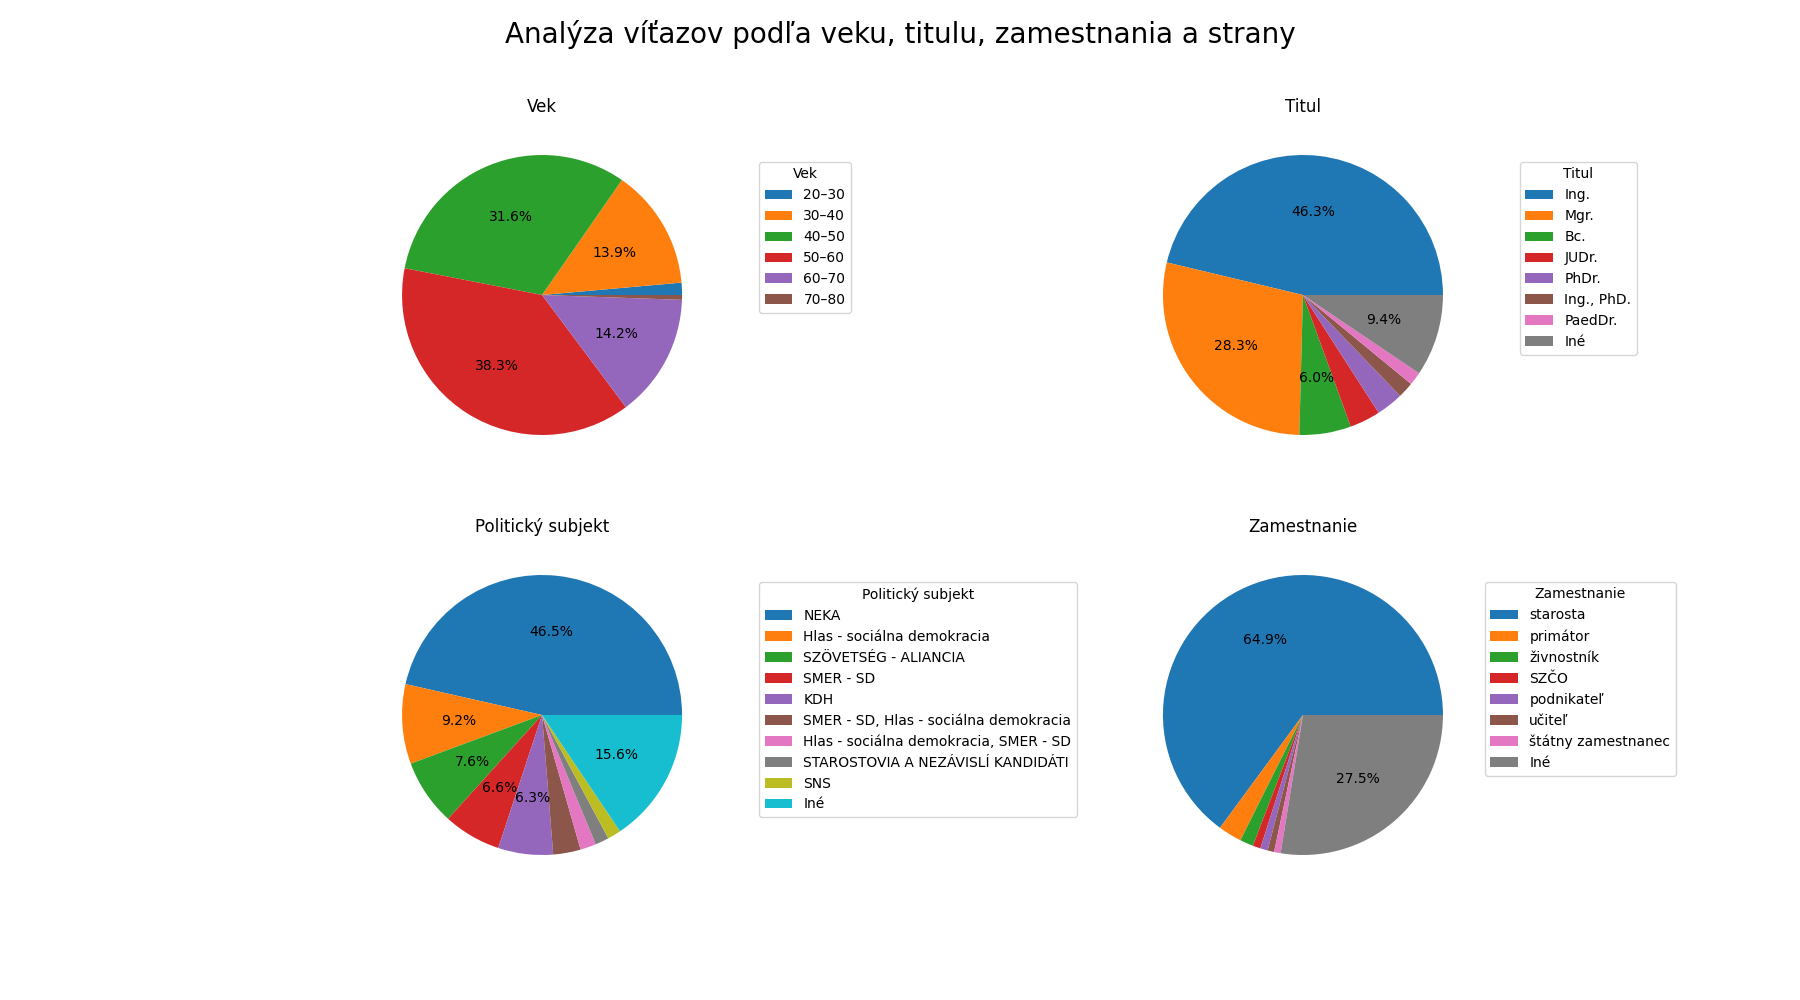
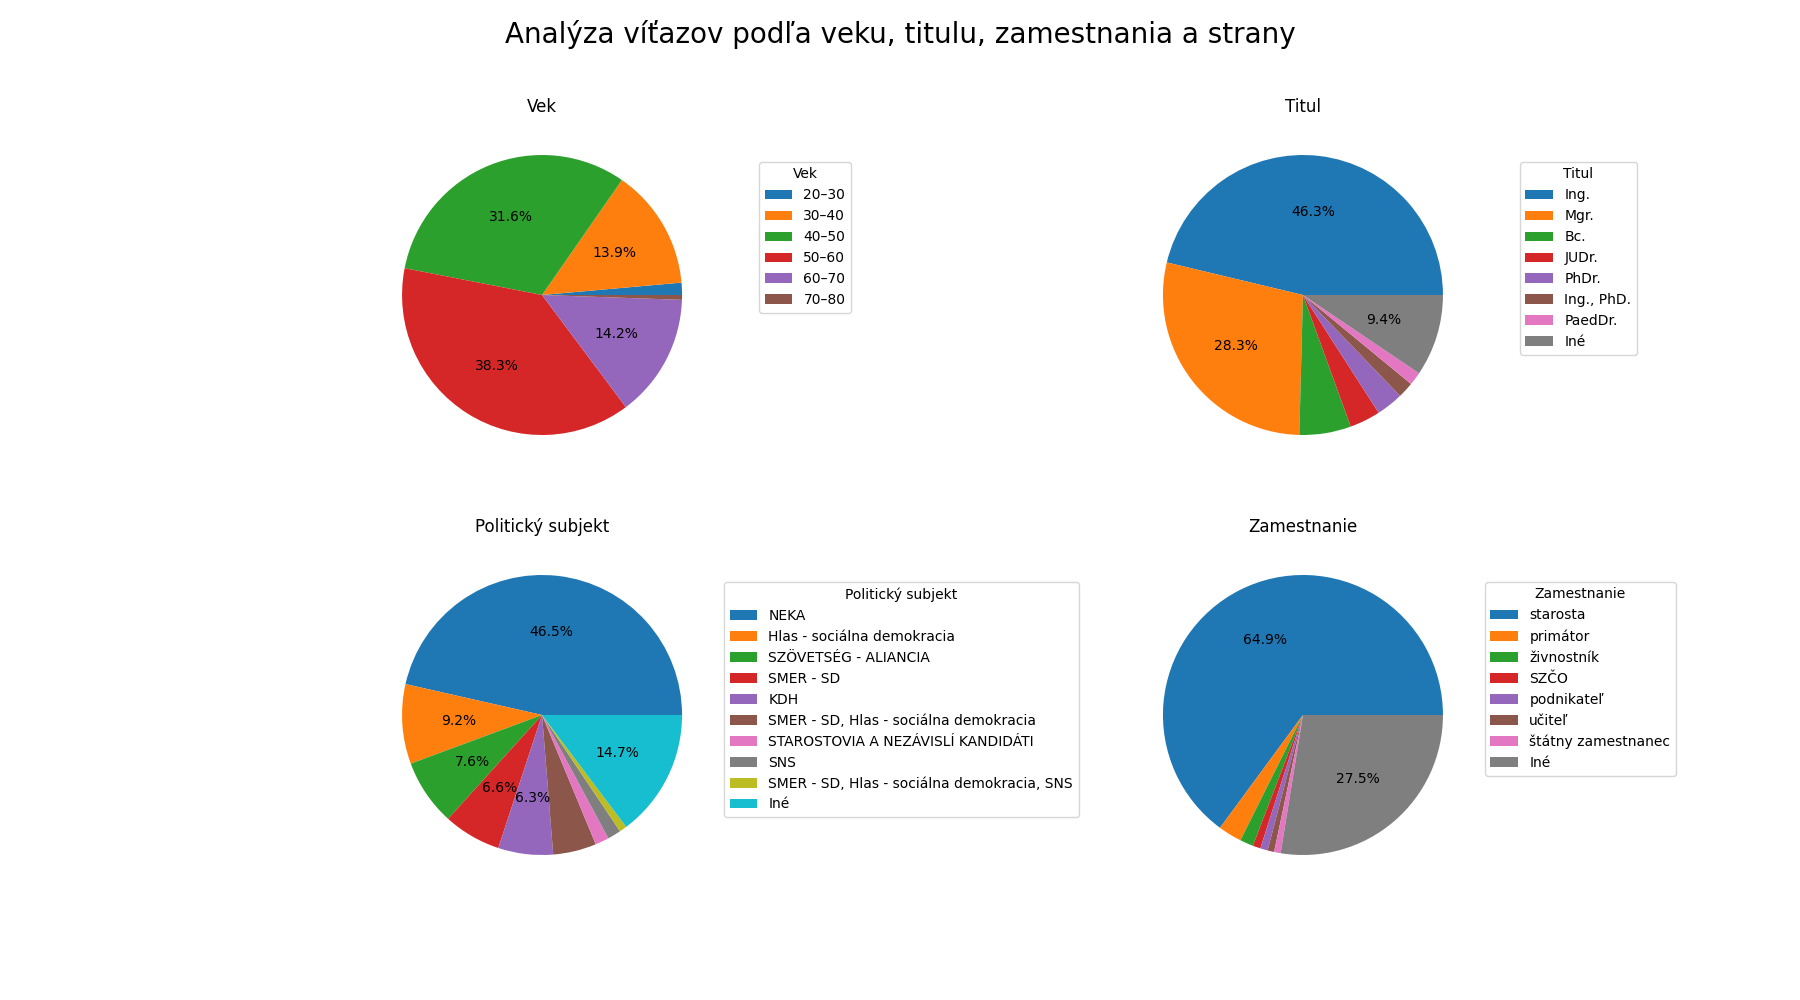
Add files via upload

Changed region(s): [[0.4044, 0.589, 0.5911, 0.806], [0.3111, 0.744, 0.3422, 0.868], [0.28, 0.713, 0.3111, 0.744]]

diff --git a/data/table_for_pie_diagram.py b/data/table_for_pie_diagram.py
@@ -51,20 +51,22 @@ category_counts = new_education['Titul'].value_counts()
 #filtered_counts = category_counts[category_counts > 1]
 
 filtered_counts = others(category_counts, 7)
-axs[0, 1].pie(x = filtered_counts, autopct=procent(4))
+axs[0, 1].pie(x = filtered_counts, autopct=procent(7))
 axs[0, 1].set_title('Titul')
 axs[0, 1].legend(filtered_counts.index, title="Titul", bbox_to_anchor=(1.1, 0.9))
 
 
 new_party = new.iloc[:, [0,1,2,3,4,5,6,7,10]]
+new_party.loc[new_party['Politický subjekt'] == 'Hlas - sociálna demokracia, SMER - SD', 'Politický subjekt'] = 'SMER - SD, Hlas - sociálna demokracia'
 category_counts = new_party['Politický subjekt'].value_counts()
 #filtered_counts = category_counts[category_counts > 2]
+#print(filtered_counts)
 
 
 filtered_counts = others(category_counts, 9)
-axs[1, 0].pie(x = filtered_counts, autopct=procent(4))
+axs[1, 0].pie(x = filtered_counts, autopct=procent(5))
 axs[1, 0].set_title('Politický subjekt')
-axs[1, 0].legend(filtered_counts.index, title="Politický subjekt", bbox_to_anchor=(1.1, 0.9))
+axs[1, 0].legend(filtered_counts.index, title="Politický subjekt", bbox_to_anchor=(1.0, 0.9))
 
 
 new_job = new.iloc[:, [0,1,2,3,4,5,6,7,15]]
